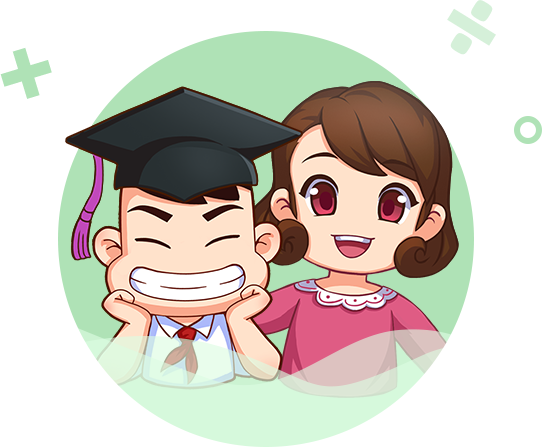
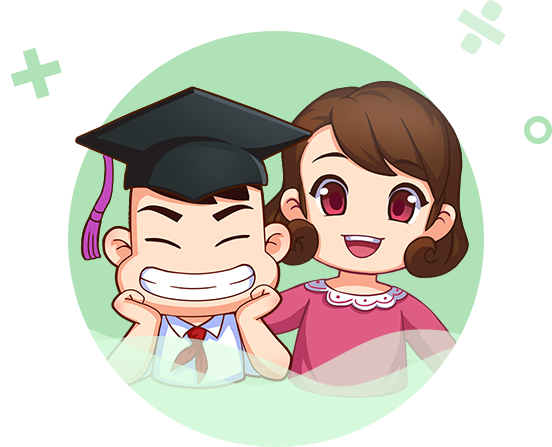
登录

diff --git a/lib/widget/gsy_tabbar_widget.dart b/lib/widget/gsy_tabbar_widget.dart
@@ -133,66 +133,80 @@ class _GSYTabBarState extends State<GSYTabBarWidget> with SingleTickerProviderSt
           //backgroundColor: Theme.of(context).primaryColor,
           backgroundColor: Color(0xFFf1f2f6),
           title: Row(
+            mainAxisAlignment:MainAxisAlignment.spaceBetween,
             children: <Widget>[
-              SizedBox(
-                width: ScreenUtil.getInstance().getWidthPx(50),
-              ),
-              Image.asset(
-                "images/home/icon_jl.png",
-                width: ScreenUtil.getInstance().getWidthPx(100),
-              ),
-              SizedBox(
-                width: ScreenUtil.getInstance().getWidthPx(25),
-              ),
-              Column(
-                mainAxisAlignment: MainAxisAlignment.center,
-                crossAxisAlignment: CrossAxisAlignment.start,
+              Row(
                 children: <Widget>[
-                  Text(
-                    "签到奖励",
-                    style: TextStyle(fontSize: ScreenUtil.getInstance().getSp(42 / 3), color: const Color(0xFF333333)),
+                  SizedBox(
+                    width: ScreenUtil.getInstance().getWidthPx(50),
                   ),
-                  Text("已经签到5天", style: TextStyle(fontSize: ScreenUtil.getInstance().getSp(28 / 3), color: const Color(0xFFacb5bc)))
+                  Image.asset(
+                    "images/home/icon_jl.png",
+                    width: ScreenUtil.getInstance().getWidthPx(100),
+                  ),
+                  SizedBox(
+                    width: ScreenUtil.getInstance().getWidthPx(25),
+                  ),
+                  Column(
+                    mainAxisAlignment: MainAxisAlignment.center,
+                    crossAxisAlignment: CrossAxisAlignment.start,
+                    children: <Widget>[
+                      Text(
+                        "签到奖励",
+                        style: TextStyle(fontSize: ScreenUtil.getInstance().getSp(42 / 3), color: const Color(0xFF333333)),
+                      ),
+                      Text("已经签到5天", style: TextStyle(fontSize: ScreenUtil.getInstance().getSp(28 / 3), color: const Color(0xFFacb5bc)))
+                    ],
+                  ),
                 ],
               ),
-            ],
-          ),
-          actions: <Widget>[
-            Stack(
-              alignment: AlignmentDirectional(0.0, 0.8),
-              children: <Widget>[
-                Center(
-                  child: IconButton(icon: Image.asset("images/home/icon_lxr.png", width: ScreenUtil.getInstance().getWidthPx(66))),
-                ),
-                Text("客服", style: TextStyle(fontSize: ScreenUtil.getInstance().getSp(28 / 3), color: const Color(0xFFacb5bc))),
-              ],
-            ),
-            Stack(
-              alignment: AlignmentDirectional(0.0, 0.8),
-              children: <Widget>[
-                Stack(
-                  fit: StackFit.passthrough,
-                  alignment: AlignmentDirectional.topCenter,
+              Row(
+                children: <Widget>[
+                Column(
+                  mainAxisAlignment: MainAxisAlignment.center,
                   children: <Widget>[
-                    Center(
-                      child: IconButton(key: _globalKey, icon: Image.asset("images/home/icon_yj.png", width: ScreenUtil.getInstance().getWidthPx(61))),
+                    SizedBox(
+                      height: ScreenUtil.getInstance().getHeightPx(56),
+                      child: Image.asset("images/home/icon_lxr.png", width: ScreenUtil.getInstance().getWidthPx(66)),
                     ),
-//                    Container(
-////      margin: EdgeInsets.only(top: position.dy),
-//                      child: ClipOval(
-//                        child: Container(
-//                          child: Text("10", style: TextStyle(fontSize: ScreenUtil.getInstance().getSp(28 / 3), color: Colors.white)),
-//                          decoration: BoxDecoration(color: const Color(0xFFff542b)),
-//                        ),
-//                      ),
-//                    ),
-                    _MsgWidget,
+                    SizedBox(
+                      height: ScreenUtil.getInstance().getHeightPx(3),
+                    ),
+                    Text("客服", style: TextStyle(fontSize: ScreenUtil.getInstance().getSp(30 / 3), color: const Color(0xFFacb5bc))),
                   ],
                 ),
-                Text("消息", style: TextStyle(fontSize: ScreenUtil.getInstance().getSp(28 / 3), color: const Color(0xFFacb5bc))),
-              ],
-            ),
-          ],
+                Container(
+                padding: EdgeInsets.only(right: 15,left: 15),
+                child: Column(
+                  mainAxisAlignment: MainAxisAlignment.center,
+                  children: <Widget>[
+                    Stack(
+                      fit: StackFit.passthrough,
+                      alignment: AlignmentDirectional(1.9, -1.5),
+                      children: <Widget>[
+                        SizedBox(
+                          key: _globalKey,
+                          height: ScreenUtil.getInstance().getHeightPx(56),
+                          child: Image.asset("images/home/icon_yj.png" ,width: ScreenUtil.getInstance().getWidthPx(66)),
+                        ),
+                        ClipOval(
+                          child: Container(
+                            child: Text("10", style: TextStyle(fontSize: ScreenUtil.getInstance().getSp(28 / 3), color: Colors.white)),
+                            decoration: BoxDecoration(color: const Color(0xFFff542b)),
+                          ),
+                        ),
+                      ],
+                    ),
+                    SizedBox(
+                      height: ScreenUtil.getInstance().getHeightPx(3),
+                    ),
+                    Text("消息", style: TextStyle(fontSize: ScreenUtil.getInstance().getSp(30 / 3), color: const Color(0xFFacb5bc))),
+                  ],
+                ),),
+                ],
+              )
+            ],
+          ),
         ),
         body: new PageView(
           controller: _pageController,

diff --git a/lib/main.dart b/lib/main.dart
@@ -15,9 +15,11 @@ import 'package:flutter_localizations/flutter_localizations.dart';
 import 'models/user.dart';
 
 main() {
-  runApp(MyApp());
+  SystemChrome.setPreferredOrientations([DeviceOrientation.portraitUp]).then((_) {
+    runApp(MyApp());
+  });
   //隐藏状态栏
-  SystemChrome.setEnabledSystemUIOverlays([]);
+//  SystemChrome.setEnabledSystemUIOverlays([]);
 //  //  SystemChrome.setEnabledSystemUIOverlays(SystemUiOverlay.values); //还原状态栏
 //  if (Platform.isAndroid) {
 //    // 以下两行 设置android状态栏为透明的沉浸。写在组件渲染之后，是为了在渲染后进行set赋值，覆盖状态栏，写在渲染之前MaterialApp组件会覆盖掉这个值。

diff --git a/lib/page/PhoneLoginPage.dart b/lib/page/PhoneLoginPage.dart
@@ -150,7 +150,7 @@ class PhoneLoginState extends State<PhoneLoginPage> with SingleTickerProviderSta
                         Container(
                           child: Image.asset(
                             "images/phone_login/center.png",
-                            width: ScreenUtil.getInstance().getWidthPx(542),
+//                            width: ScreenUtil.getInstance().getWidthPx(552),
                             height: ScreenUtil.getInstance().getHeightPx(447),
                           ),
                         ),

diff --git a/lib/page/SplashPage.dart b/lib/page/SplashPage.dart
@@ -101,7 +101,7 @@ class SplashPageState extends State<SplashPage> {
             Container(
               child: Image.asset(
                 "images/phone_login/center.png",
-                width: ScreenUtil.getInstance().getWidthPx(542),
+//                width: ScreenUtil.getInstance().getWidthPx(542),
                 height: ScreenUtil.getInstance().getHeightPx(447),
               ),
             ),

diff --git a/android/app/src/main/java/com/leo/flutterstart/MainActivity.java b/android/app/src/main/java/com/leo/flutterstart/MainActivity.java
@@ -2,6 +2,7 @@ package com.leo.flutterstart;
 
 import android.os.Bundle;
 import android.util.Log;
+import android.view.WindowManager;
 
 import io.flutter.app.FlutterActivity;
 import io.flutter.plugins.GeneratedPluginRegistrant;
@@ -21,6 +22,8 @@ public class MainActivity extends FlutterActivity {
     super.onCreate(savedInstanceState);
     GeneratedPluginRegistrant.registerWith(this);
     final MainActivity content = this;
+    //屏幕常亮
+    getWindow().addFlags(WindowManager.LayoutParams.FLAG_KEEP_SCREEN_ON);
     new MethodChannel(getFlutterView(), "yondor").setMethodCallHandler(
             // 提供各个方法的具体实现
             new MethodCallHandler() {
